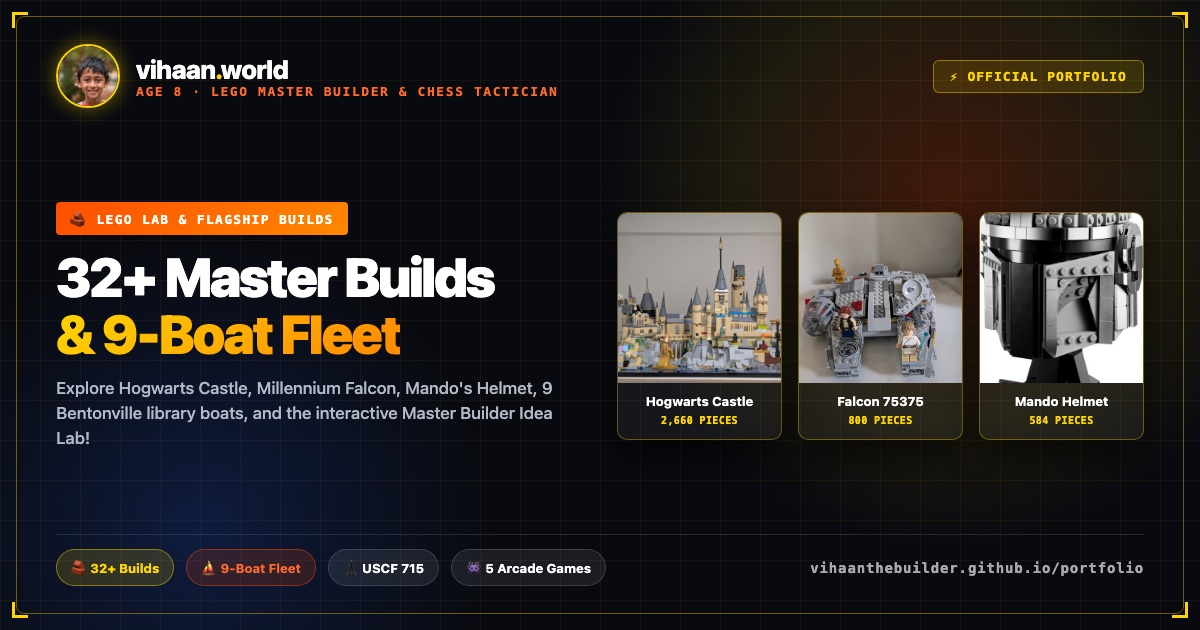
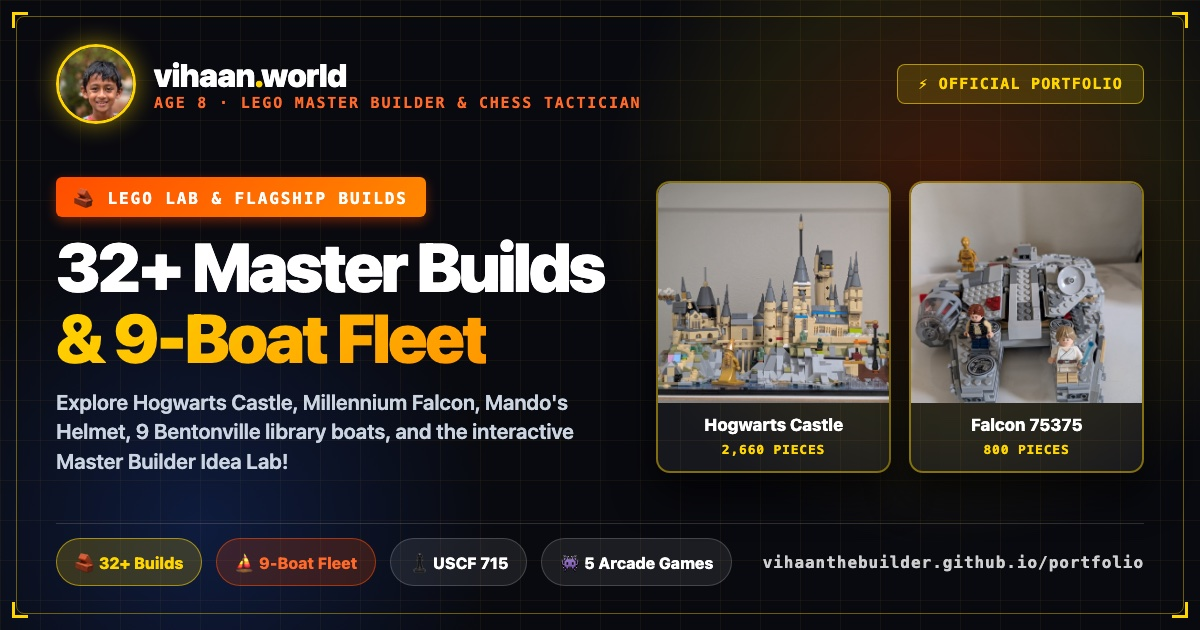
Make Open Graph preview card bolder, larger, and higher-impact for mobile chat previews

diff --git a/generate-og.html b/generate-og.html
@@ -76,39 +76,39 @@
   .brand {
     display: flex;
     align-items: center;
-    gap: 16px;
+    gap: 18px;
   }
   .avatar {
-    width: 64px;
-    height: 64px;
+    width: 80px;
+    height: 80px;
     border-radius: 50%;
     object-fit: cover;
-    border: 2.5px solid #ffd500;
-    box-shadow: 0 0 20px rgba(255, 213, 0, 0.45);
+    border: 3.5px solid #ffd500;
+    box-shadow: 0 0 25px rgba(255, 213, 0, 0.55);
   }
   .brand-text h2 {
-    font-size: 26px;
-    font-weight: 800;
+    font-size: 32px;
+    font-weight: 900;
     letter-spacing: -0.02em;
     color: #fff;
   }
   .brand-text h2 span { color: #ffd500; }
   .brand-text p {
-    font-size: 13px;
+    font-size: 15px;
     font-family: ui-monospace, monospace;
     letter-spacing: 0.12em;
     color: #ff6a2b;
     text-transform: uppercase;
-    font-weight: 700;
+    font-weight: 800;
   }
   .edition-badge {
-    padding: 8px 16px;
-    border-radius: 6px;
-    background: rgba(255, 213, 0, 0.12);
-    border: 1px solid rgba(255, 213, 0, 0.45);
+    padding: 10px 20px;
+    border-radius: 8px;
+    background: rgba(255, 213, 0, 0.15);
+    border: 1.5px solid rgba(255, 213, 0, 0.6);
     color: #ffd500;
     font-family: ui-monospace, monospace;
-    font-size: 13px;
+    font-size: 15px;
     font-weight: 800;
     letter-spacing: 0.08em;
     text-transform: uppercase;
@@ -122,82 +122,84 @@
     align-items: center;
     justify-content: space-between;
     gap: 36px;
-    margin-top: 10px;
+    margin-top: 6px;
   }
   .hero-info {
-    max-width: 540px;
+    max-width: 580px;
   }
   .tagline {
     display: inline-block;
     background: linear-gradient(135deg, #ff4d00, #ff8800);
     color: #fff;
-    font-size: 13px;
+    font-size: 16px;
     font-weight: 800;
-    letter-spacing: 0.1em;
+    letter-spacing: 0.12em;
     text-transform: uppercase;
-    padding: 6px 14px;
-    border-radius: 4px;
+    padding: 7px 18px;
+    border-radius: 6px;
     margin-bottom: 14px;
     font-family: ui-monospace, monospace;
+    box-shadow: 0 4px 12px rgba(255, 77, 0, 0.4);
   }
   .main-title {
-    font-size: 54px;
+    font-size: 68px;
     line-height: 1.05;
     font-weight: 900;
     letter-spacing: -0.04em;
     margin-bottom: 14px;
   }
   .main-title .highlight {
-    background: linear-gradient(135deg, #ffd500 0%, #ff8800 100%);
+    background: linear-gradient(135deg, #ffd500 0%, #ff9500 100%);
     -webkit-background-clip: text;
     -webkit-text-fill-color: transparent;
   }
   .description {
-    font-size: 17px;
-    line-height: 1.45;
-    color: #b2b9c7;
-    font-weight: 500;
+    font-size: 21px;
+    line-height: 1.4;
+    color: #cbd5e1;
+    font-weight: 600;
   }
 
-  /* Showcase Photo Cards */
+  /* Showcase Photo Cards - 2 Large High-Impact Cards */
   .showcase-grid {
     display: flex;
-    gap: 16px;
+    gap: 18px;
   }
   .build-card {
-    width: 165px;
-    background: rgba(255, 255, 255, 0.05);
-    border: 1.5px solid rgba(255, 213, 0, 0.35);
-    border-radius: 10px;
+    width: 235px;
+    background: rgba(255, 255, 255, 0.06);
+    border: 2px solid rgba(255, 213, 0, 0.45);
+    border-radius: 14px;
     overflow: hidden;
-    box-shadow: 0 16px 32px rgba(0,0,0,0.6);
+    box-shadow: 0 20px 40px rgba(0,0,0,0.7);
   }
   .build-card img {
     width: 100%;
-    height: 170px;
+    height: 220px;
     object-fit: cover;
     display: block;
     background: #111;
   }
   .build-card-info {
-    padding: 10px 10px 12px;
+    padding: 12px 14px 14px;
     text-align: center;
   }
   .build-card-info b {
     display: block;
-    font-size: 13px;
-    font-weight: 700;
+    font-size: 17px;
+    font-weight: 800;
     color: #fff;
     white-space: nowrap;
     overflow: hidden;
     text-overflow: ellipsis;
+    margin-bottom: 4px;
   }
   .build-card-info span {
-    font-size: 10px;
+    font-size: 13px;
     font-family: ui-monospace, monospace;
     color: #ffd500;
-    font-weight: 700;
-    letter-spacing: 0.04em;
+    font-weight: 800;
+    letter-spacing: 0.06em;
   }
 
   /* Footer bar */
@@ -208,39 +210,39 @@
     align-items: center;
     justify-content: space-between;
     padding-top: 14px;
-    border-top: 1px solid rgba(255, 255, 255, 0.12);
+    border-top: 1px solid rgba(255, 255, 255, 0.15);
   }
   .stat-pills {
     display: flex;
-    gap: 12px;
+    gap: 14px;
   }
   .pill {
     display: flex;
     align-items: center;
-    gap: 6px;
+    gap: 8px;
     background: rgba(255, 255, 255, 0.08);
-    border: 1px solid rgba(255, 255, 255, 0.15);
-    padding: 7px 14px;
+    border: 1.5px solid rgba(255, 255, 255, 0.18);
+    padding: 10px 18px;
     border-radius: 9999px;
-    font-size: 13px;
-    font-weight: 700;
+    font-size: 16px;
+    font-weight: 800;
     color: #fff;
   }
   .pill-yellow {
-    background: rgba(255, 213, 0, 0.15);
-    border-color: rgba(255, 213, 0, 0.45);
+    background: rgba(255, 213, 0, 0.18);
+    border-color: rgba(255, 213, 0, 0.55);
     color: #ffd500;
   }
   .pill-orange {
-    background: rgba(255, 77, 0, 0.15);
-    border-color: rgba(255, 77, 0, 0.45);
+    background: rgba(255, 77, 0, 0.18);
+    border-color: rgba(255, 77, 0, 0.55);
     color: #ff6a2b;
   }
   .domain {
     font-family: ui-monospace, monospace;
-    font-size: 14px;
-    font-weight: 700;
-    color: rgba(255, 255, 255, 0.65);
+    font-size: 16px;
+    font-weight: 800;
+    color: rgba(255, 255, 255, 0.8);
     letter-spacing: 0.06em;
   }
 </style>
@@ -277,7 +279,7 @@
       </p>
     </div>
 
-    <!-- Showcase Cards -->
+    <!-- Showcase Cards (2 Huge Master Builds) -->
     <div class="showcase-grid">
       <div class="build-card">
         <img src="images/hogwarts.jpg" alt="Hogwarts Castle">
@@ -291,13 +293,6 @@
         <div class="build-card-info">
           <b>Falcon 75375</b>
           <span>800 PIECES</span>
-        </div>
-      </div>
-      <div class="build-card">
-        <img src="images/set-mando-helmet-75328.jpg" alt="Mando Helmet">
-        <div class="build-card-info">
-          <b>Mando Helmet</b>
-          <span>584 PIECES</span>
         </div>
       </div>
     </div>
